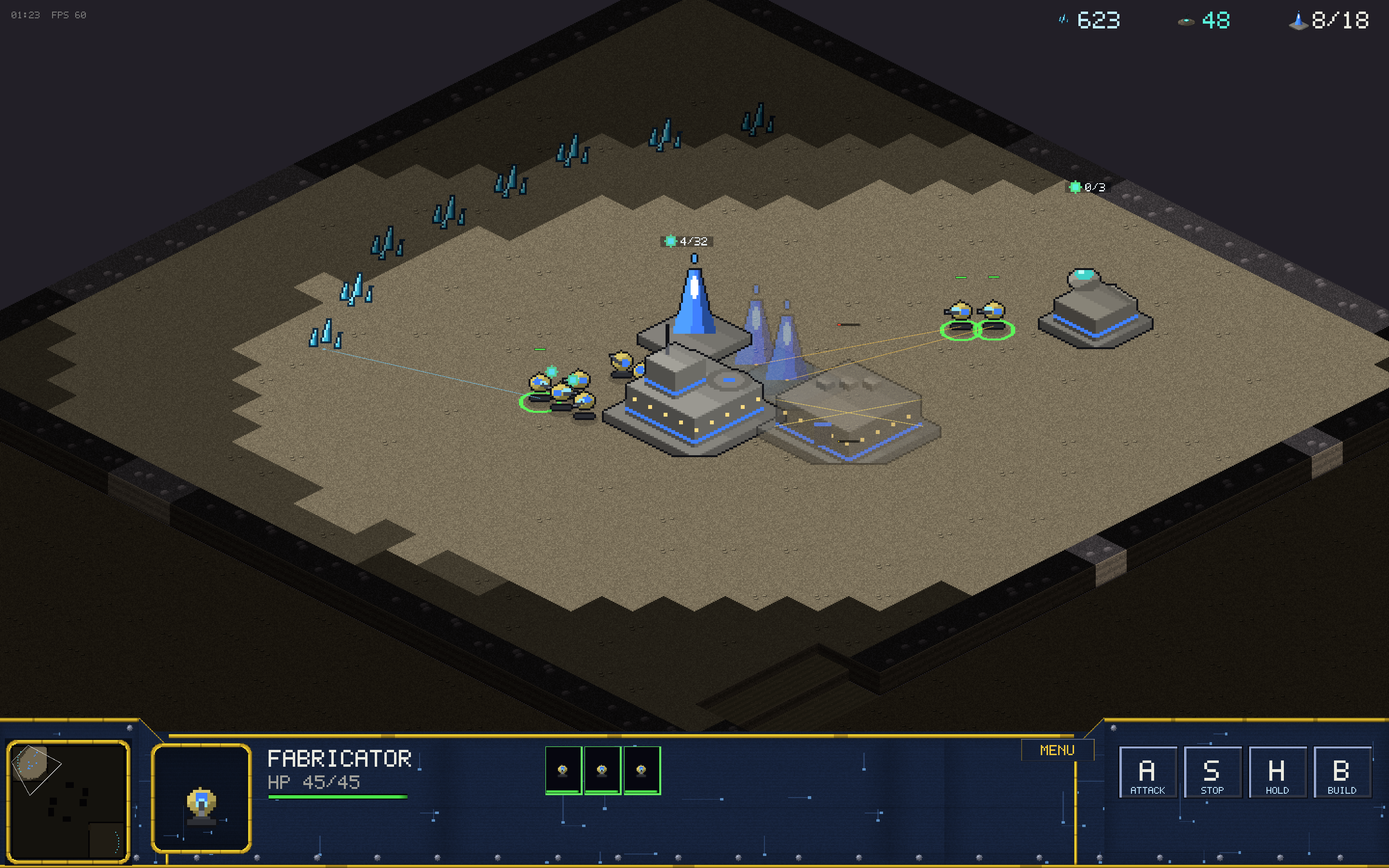
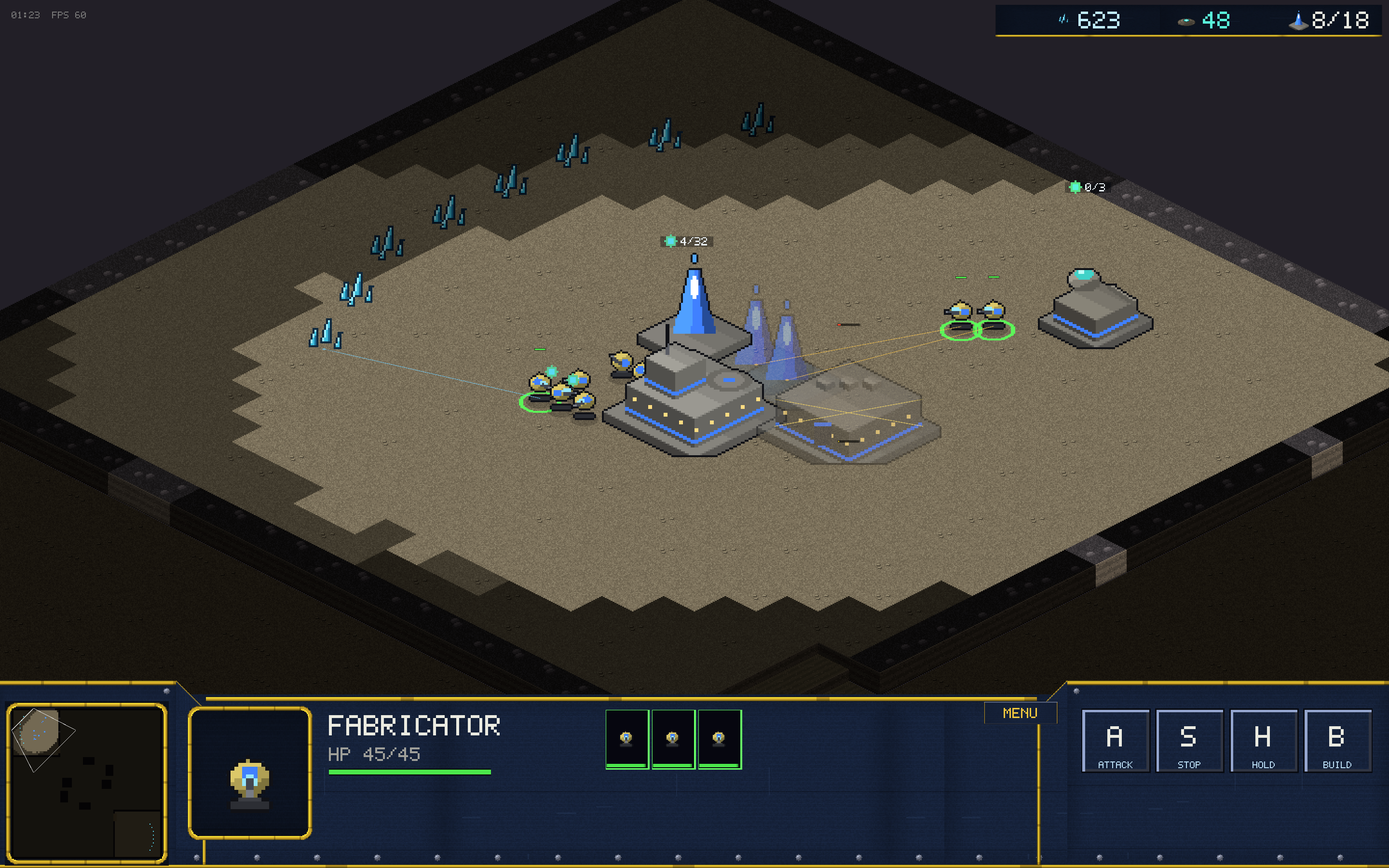
console: taller deck, bigger portrait/type, calm panel texture
User pass on the rework: the console reads bigger by default —
150ui tall (was 118), portrait 104ui, larger name type, chunkier
queue/strip tiles and 60x56 card buttons, HUD default scale 1.15.
The circuit-trace detailing is now faint and node-free: the bright
dashes read as broken pixels at dialog scale, not texture. Settings
rows clear the title plate. Wiki/readme screenshots refreshed.

Changed region(s): [[0.0, 0.7778, 1.0, 1.0], [0.8125, 0.0311, 0.8438, 0.0622]]

diff --git a/crates/client/src/hud.rs b/crates/client/src/hud.rs
@@ -62,7 +62,7 @@ const GOLD_TXT: [f32; 4] = [0.95, 0.78, 0.25, 1.0];
 
 impl App {
     pub(crate) fn console_h(&self) -> f32 {
-        118.0 * self.ui()
+        150.0 * self.ui()
     }
 
     // ---------------------------------------------------- chrome helpers ----
@@ -139,7 +139,7 @@ impl App {
         let ui = self.ui();
         let w = self.cam.screen_w;
         let cy = self.cam.screen_h - self.console_h();
-        let card_w = 4.0 * (56.0 * ui) + 18.0 * ui;
+        let card_w = 4.0 * (64.0 * ui) + 18.0 * ui;
         (w - card_w - 76.0 * ui, cy + 6.0 * ui, 64.0 * ui, 20.0 * ui)
     }
 
@@ -295,12 +295,12 @@ impl App {
         let ui = self.ui();
         let (mx, _, size) = self.minimap_rect();
         let x0 = mx + size + 24.0 * ui;
-        let tx = x0 + 84.0 * ui + 16.0 * ui;
+        let tx = x0 + 104.0 * ui + 16.0 * ui;
         let sx = tx + 240.0 * ui;
         let sy = self.cam.screen_h - self.console_h() + 14.0 * ui;
         // Never run under the MENU button on narrow windows.
         let avail = self.menu_button_rect().0 - 10.0 * ui - sx;
-        let cols = ((avail / (34.0 * ui)).floor() as usize).clamp(1, 9);
+        let cols = ((avail / (40.0 * ui)).floor() as usize).clamp(1, 9);
         let mut out = Vec::new();
         let mut k = 0;
         for id in self.selection.iter().take(cols * 2) {
@@ -311,10 +311,10 @@ impl App {
             let col = k % cols;
             let row = k / cols;
             out.push((
-                sx + col as f32 * 34.0 * ui - 2.0,
-                sy + row as f32 * 46.0 * ui - 2.0,
-                32.0 * ui,
-                42.0 * ui,
+                sx + col as f32 * 40.0 * ui - 2.0,
+                sy + row as f32 * 58.0 * ui - 2.0,
+                38.0 * ui,
+                52.0 * ui,
                 *id,
             ));
             k += 1;
@@ -377,7 +377,7 @@ impl App {
         // Side blocks: minimap (left) and command card (right) sit higher.
         let (_, _, msize) = self.minimap_rect();
         let lw = msize + 22.0 * ui;
-        let rb_x = w - 4.0 * (56.0 * ui) - 22.0 * ui;
+        let rb_x = w - 4.0 * (64.0 * ui) - 22.0 * ui;
         self.chrome_panel(out, 0.0, cy - rise, lw, ch + rise, false);
         self.chrome_panel(out, rb_x, cy - rise, w - rb_x, ch + rise, false);
         // Angled shoulders bridging block tops down to the deck edge.
@@ -609,10 +609,10 @@ impl App {
         }
         let ui = self.ui();
         let (mx, _, size) = self.minimap_rect();
-        let x0 = mx + size + 24.0 * ui + 84.0 * ui + 16.0 * ui;
-        let y = self.cam.screen_h - self.console_h() + 66.0 * ui;
+        let x0 = mx + size + 24.0 * ui + 104.0 * ui + 16.0 * ui;
+        let y = self.cam.screen_h - self.console_h() + 84.0 * ui;
         (0..b.queue.len())
-            .map(|k| (x0 + k as f32 * 36.0 * ui, y, 32.0 * ui, 38.0 * ui, k))
+            .map(|k| (x0 + k as f32 * 42.0 * ui, y, 38.0 * ui, 44.0 * ui, k))
             .collect()
     }
 
@@ -641,7 +641,7 @@ impl App {
         let Some(e) = self.state.get(first) else { return };
 
         // Portrait: dark inset with a gold frame, SC:R style.
-        let pw = 84.0 * ui;
+        let pw = 104.0 * ui;
         self.chrome_panel(out, x0, cy + 12.0 * ui, pw, pw + 8.0 * ui, true);
         self.gold_frame(out, x0 - 2.0 * ui, cy + 10.0 * ui, pw + 4.0 * ui, pw + 12.0 * ui);
         let team = (e.owner as usize).min(1);
@@ -686,21 +686,21 @@ impl App {
                 (n.to_string(), 0)
             }
         };
-        self.gfx.text(out, tx, cy + 16.0 * ui, self.ts(2.0), white, &name);
+        self.gfx.text(out, tx, cy + 18.0 * ui, self.ts(2.6), white, &name);
         if e.kind == EntityKind::Resource {
             self.gfx.text(
                 out,
                 tx,
-                cy + 38.0 * ui,
-                self.ts(1.5),
+                cy + 46.0 * ui,
+                self.ts(1.6),
                 [MINERAL_COLOR[0], MINERAL_COLOR[1], MINERAL_COLOR[2], 1.0],
                 &format!("{} LEFT", e.amount),
             );
         } else {
             let frac = e.hp as f32 / maxhp.max(1) as f32;
-            self.gfx.text(out, tx, cy + 38.0 * ui, self.ts(1.5), dim, &format!("HP {}/{}", e.hp, maxhp));
-            self.gfx.quad(out, tx, cy + 54.0 * ui, 120.0 * ui, 5.0 * ui, [0.05, 0.05, 0.05, 1.0]);
-            self.gfx.quad(out, tx, cy + 55.0 * ui, 120.0 * ui * frac.clamp(0.0, 1.0), 3.0 * ui, hp_color(frac));
+            self.gfx.text(out, tx, cy + 46.0 * ui, self.ts(1.6), dim, &format!("HP {}/{}", e.hp, maxhp));
+            self.gfx.quad(out, tx, cy + 64.0 * ui, 140.0 * ui, 6.0 * ui, [0.05, 0.05, 0.05, 1.0]);
+            self.gfx.quad(out, tx, cy + 65.0 * ui, 140.0 * ui * frac.clamp(0.0, 1.0), 4.0 * ui, hp_color(frac));
         }
         // Extractor: show remaining gas.
         if e.kind == EntityKind::Building
@@ -710,14 +710,14 @@ impl App {
             self.gfx.text(
                 out,
                 tx,
-                cy + 66.0 * ui,
+                cy + 80.0 * ui,
                 self.ts(1.5),
                 [GAS_COLOR[0], GAS_COLOR[1], GAS_COLOR[2], 1.0],
                 &format!("PLASMA {}", e.amount),
             );
         }
         if e.construction.is_some() {
-            self.gfx.text(out, tx, cy + 66.0 * ui, self.ts(1.5), [0.95, 0.8, 0.3, 1.0], "CONSTRUCTING");
+            self.gfx.text(out, tx, cy + 80.0 * ui, self.ts(1.5), [0.95, 0.8, 0.3, 1.0], "CONSTRUCTING");
         }
         // Caster energy.
         if e.kind == EntityKind::Unit {
@@ -726,7 +726,7 @@ impl App {
                 self.gfx.text(
                     out,
                     tx,
-                    cy + 66.0 * ui,
+                    cy + 80.0 * ui,
                     self.ts(1.5),
                     [0.7, 0.55, 1.0, 1.0],
                     &format!("ENERGY {}/{}", e.energy, d.energy_max),
@@ -737,15 +737,15 @@ impl App {
         if let Some((r, p)) = e.research {
             let rdef = &self.state.data.research[r as usize];
             let frac = p as f32 / rdef.ticks.max(1) as f32;
-            self.gfx.text(out, tx, cy + 66.0 * ui, self.ts(1.5), [0.5, 0.9, 1.0, 1.0], &format!("RESEARCHING {}", rdef.name));
-            self.gfx.quad(out, tx, cy + 84.0 * ui, 120.0 * ui, 5.0 * ui, [0.05, 0.05, 0.05, 1.0]);
-            self.gfx.quad(out, tx, cy + 85.0 * ui, 120.0 * ui * frac, 3.0 * ui, [0.5, 0.9, 1.0, 1.0]);
+            self.gfx.text(out, tx, cy + 80.0 * ui, self.ts(1.5), [0.5, 0.9, 1.0, 1.0], &format!("RESEARCHING {}", rdef.name));
+            self.gfx.quad(out, tx, cy + 100.0 * ui, 140.0 * ui, 5.0 * ui, [0.05, 0.05, 0.05, 1.0]);
+            self.gfx.quad(out, tx, cy + 101.0 * ui, 140.0 * ui * frac, 3.0 * ui, [0.5, 0.9, 1.0, 1.0]);
         }
         if self.selection_types().len() > 1 {
             self.gfx.text(
                 out,
                 tx,
-                cy + 94.0 * ui,
+                cy + 116.0 * ui,
                 self.ts(1.0),
                 dim,
                 "TAB: NEXT SUBGROUP",
@@ -786,16 +786,16 @@ impl App {
             match u.kind {
                 EntityKind::Unit => {
                     let r = book.unit(self.unit_type[u.def as usize], (u.owner as usize).min(1), 2, 0);
-                    self.gfx.sprite(out, r, bx + 14.0 * ui, by + 18.0 * ui, r.w as f32 * 0.8 * ui, r.h as f32 * 0.8 * ui, WHITE);
+                    self.gfx.sprite(out, r, bx + 17.0 * ui, by + 22.0 * ui, r.w as f32 * ui, r.h as f32 * ui, WHITE);
                     let frac = u.hp as f32 / self.state.data.units[u.def as usize].hp as f32;
-                    self.gfx.quad(out, bx, by + 37.0 * ui, 28.0 * ui * frac, 2.0 * ui, hp_color(frac));
+                    self.gfx.quad(out, bx, by + 46.0 * ui, 34.0 * ui * frac, 3.0 * ui, hp_color(frac));
                 }
                 EntityKind::Building => {
                     let r = book.building(self.building_type[u.def as usize], (u.owner as usize).min(1));
-                    let s = (28.0 * ui) / r.w as f32;
-                    self.gfx.sprite(out, r, bx + 14.0 * ui, by + 18.0 * ui, r.w as f32 * s, r.h as f32 * s, WHITE);
+                    let s = (34.0 * ui) / r.w as f32;
+                    self.gfx.sprite(out, r, bx + 17.0 * ui, by + 22.0 * ui, r.w as f32 * s, r.h as f32 * s, WHITE);
                     let frac = u.hp as f32 / self.state.data.buildings[u.def as usize].hp as f32;
-                    self.gfx.quad(out, bx, by + 37.0 * ui, 28.0 * ui * frac, 2.0 * ui, hp_color(frac));
+                    self.gfx.quad(out, bx, by + 46.0 * ui, 34.0 * ui * frac, 3.0 * ui, hp_color(frac));
                 }
                 EntityKind::Resource => continue,
             }
@@ -808,8 +808,8 @@ impl App {
         let ui = self.ui();
         let w = self.cam.screen_w;
         let cy = self.cam.screen_h - self.console_h();
-        let bw = 52.0 * ui;
-        let bh = 46.0 * ui;
+        let bw = 60.0 * ui;
+        let bh = 56.0 * ui;
         let gap = 4.0 * ui;
         let bx0 = w - 4.0 * (bw + gap) - 10.0 * ui;
         let mut list: Vec<(String, String, CardIcon, CardAction, Vec<(String, [f32; 4])>)> =

diff --git a/crates/client/src/atlas.rs b/crates/client/src/atlas.rs
@@ -576,23 +576,22 @@ fn chrome_panel_canvas(w: i32, h: i32, level: f32) -> Canvas {
             c.set(x, y, scale(NAVY, f));
         }
     }
-    // Sparse circuit traces: thin lit lines with elbow bends + node dots.
-    let traces = (w * h / 3800).max(3);
+    // Faint circuit traces — barely-there detailing. Bright marks at this
+    // scale read as broken pixels, not texture (user report), so: few,
+    // dim, and no glowing endpoint nodes.
+    let traces = (w * h / 9000).max(2);
     for k in 0..traces {
         let hsh = hash2(k, w + h, 913);
-        let x0 = 8 + (hsh % (w as u32 - 16)) as i32;
-        let y0 = 8 + ((hsh >> 9) % (h as u32 - 16)) as i32;
-        let len = 12 + ((hsh >> 18) % 26) as i32;
+        let x0 = 10 + (hsh % (w as u32 - 20)) as i32;
+        let y0 = 10 + ((hsh >> 9) % (h as u32 - 20)) as i32;
+        let len = 10 + ((hsh >> 18) % 18) as i32;
         let vertical = hsh & 1 == 0;
-        let lit: Color = [64, 96, 148, 255];
         for s in 0..len {
             let (x, y) = if vertical { (x0, y0 + s) } else { (x0 + s, y0) };
-            if x < w - 6 && y < h - 6 {
-                c.blend(x, y, [lit[0], lit[1], lit[2], 130]);
+            if x < w - 8 && y < h - 8 {
+                c.blend(x, y, [58, 82, 124, 55]);
             }
         }
-        let (ex, ey) = if vertical { (x0, (y0 + len).min(h - 7)) } else { ((x0 + len).min(w - 7), y0) };
-        c.rect(ex - 1, ey - 1, 3, 3, [110, 170, 230, 200]);
     }
     c
 }

diff --git a/crates/client/src/menu.rs b/crates/client/src/menu.rs
@@ -236,7 +236,7 @@ impl App {
             }
             MenuPage::Settings { .. } => {
                 let s = &self.settings;
-                let y0 = h * 0.17;
+                let y0 = h * 0.185;
                 let rows = vec![
                     (
                         format!("FULLSCREEN: {}", if s.fullscreen { "ON" } else { "OFF" }),
@@ -441,7 +441,7 @@ impl App {
             // Labels for slider rows + bind rows (buttons drawn below).
             let bh = 44.0 * ui;
             let gap = 12.0 * ui;
-            let y0 = h * 0.17;
+            let y0 = h * 0.185;
             let row_y = y0 + 2.0 * (bh + gap);
             let ts = self.ts(1.5);
             let hud_l = format!("HUD SIZE  {:.1}X", self.settings.hud_scale);

diff --git a/crates/client/src/config.rs b/crates/client/src/config.rs
@@ -269,7 +269,7 @@ fn fresh_player_id() -> String {
 impl Default for Settings {
     fn default() -> Settings {
         Settings {
-            hud_scale: 1.0,
+            hud_scale: 1.15,
             fullscreen: false,
             edge_scroll: true,
             game_speed: 1.0,
